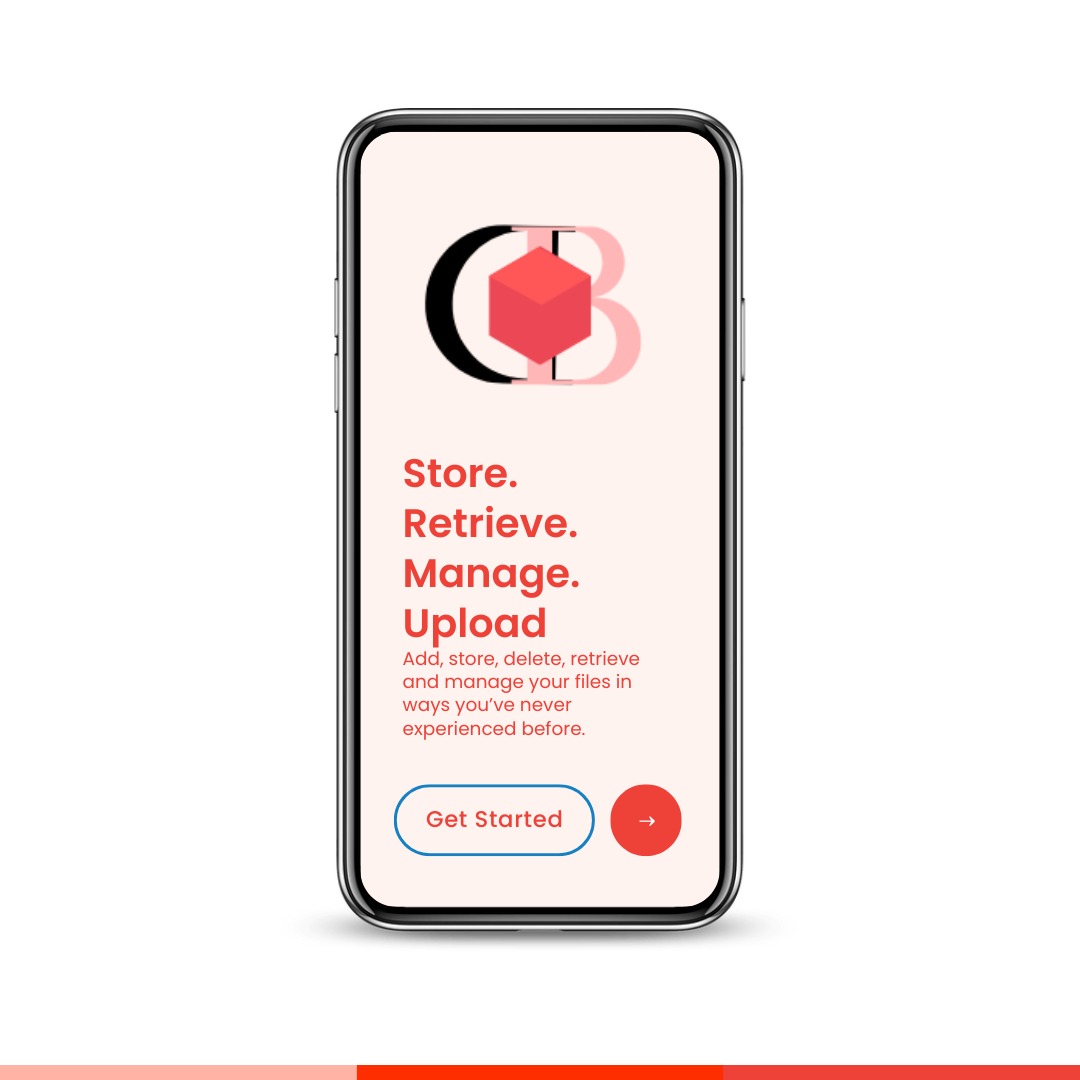
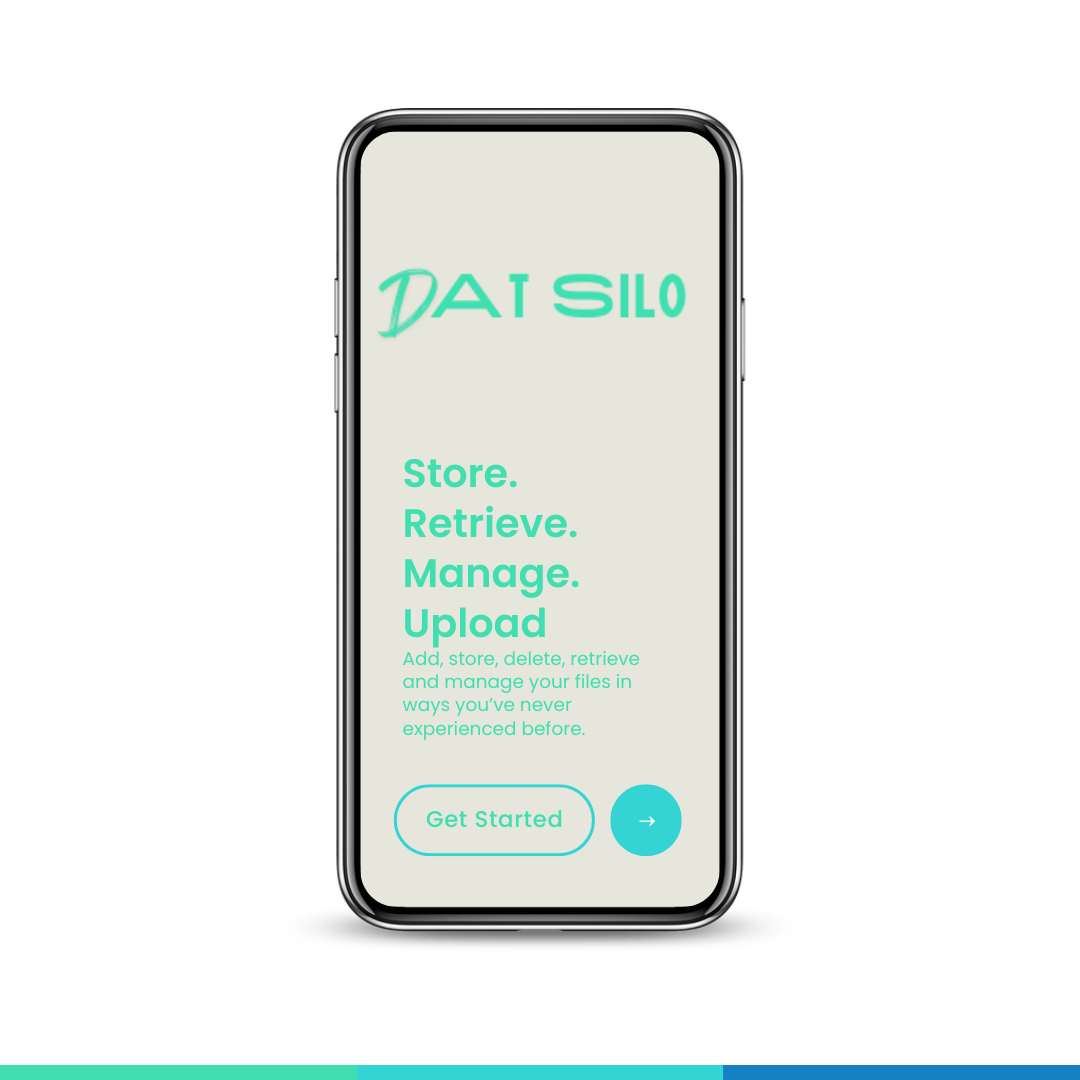
frontend updates

Changed region(s): [[0.3361, 0.1222, 0.6722, 0.8556], [0.0, 0.9778, 1.0, 1.0]]

diff --git a/client/src/pages/index.tsx b/client/src/pages/index.tsx
@@ -12,11 +12,11 @@ import Product from '../components/Product';
 
 const App = () => {
   return (
-    <div className={`bg-background grid gap-y-16 overflow-hidden`}>
-      <div className={`relative bg-background`}>
+    <div className={` grid gap-y-16 overflow-hidden bg-[#e6e6dd]`}>
+      <div className={`relative bg-[#e6e6dd]`}>
         <div className="max-w-7xl mx-auto">
           <div
-            className={`relative z-10 pb-8 bg-background sm:pb-16 md:pb-20 lg:max-w-2xl lg:w-full lg:pb-28 xl:pb-32`}
+            className={`relative z-10 pb-8 bg-[#e6e6dd] sm:pb-16 md:pb-20 lg:max-w-2xl lg:w-full lg:pb-28 xl:pb-32`}
           >
             <Header />
             <MainHero />

diff --git a/client/src/styles/main.css b/client/src/styles/main.css
@@ -4,8 +4,8 @@
 
 
 :root {
-  --color-primary: #ec4755;
-  --color-secondary: #a12c34;
+  --color-primary: #40dfaf;
+  --color-secondary: #5fffca;
   --color-tertiaty: #99a0a3;
 }
 
